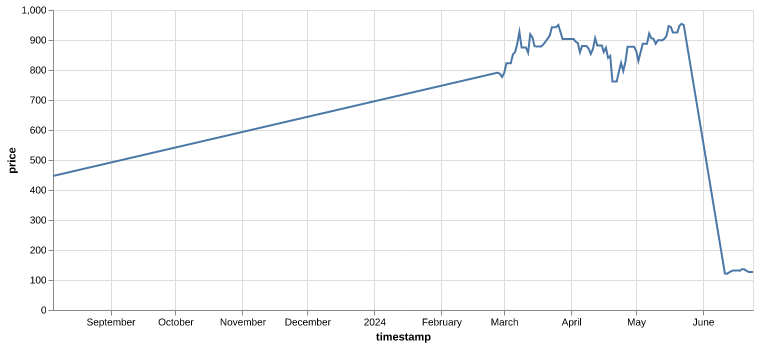
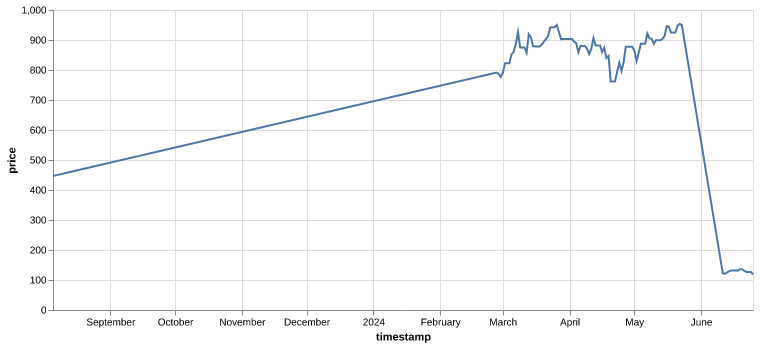
Latest data: Tue Jun 25 02:02:26 UTC 2024

diff --git a/docs/index.html b/docs/index.html
@@ -11,7 +11,7 @@
     <div class="container">
         <h1>On this page we are tracking the price of the NVDA stock</h1>
         <p>The maximum price since we started tracking was 953.86</p>
-        <p>The minimum price since we started tracking was 120.91</p>
+        <p>The minimum price since we started tracking was 118.11</p>
         <img src="output.png">
         <br/>
         <h1> Here's what it looks like on datawrapper:</h1>
